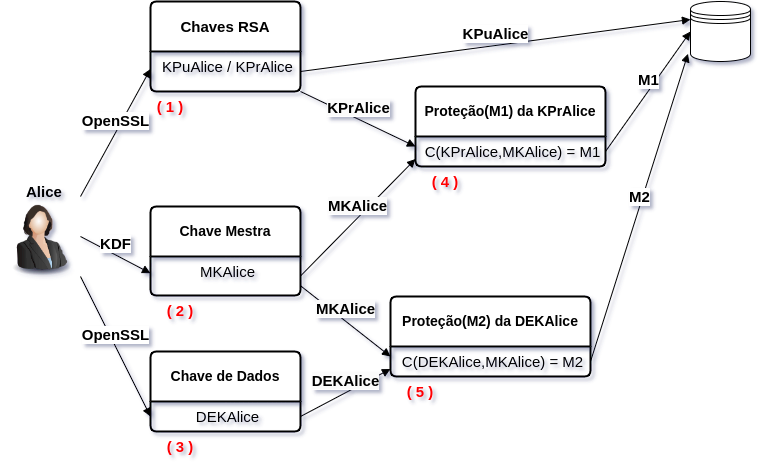
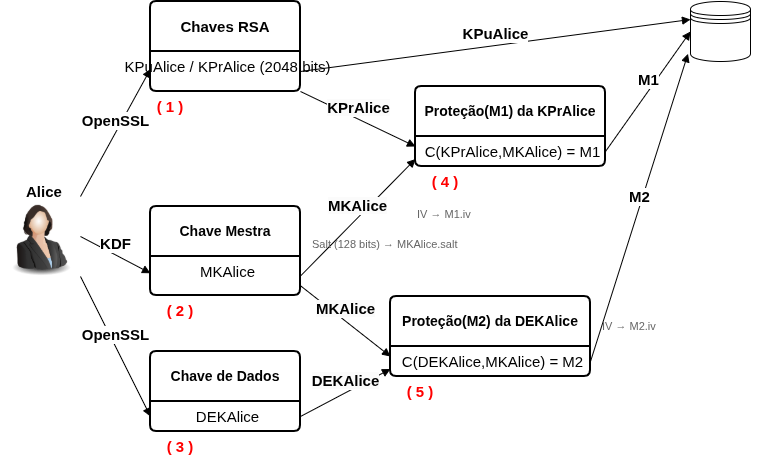
Padroniza RSA 2048 bits e completa diagramas de custódia de Alice/Bob
Adiciona -pkeyopt rsa_keygen_bits:2048 aos comandos genpkey de Alice e
Bob em custodia.tex (alinhando com o padrão já usado em conceitos.tex).
Nos diagramas chave_alice.drawio/chave_bob.drawio, declara o tamanho de
chave no rótulo RSA, referencia a nota de autenticação existente nas
legendas das figuras e adiciona notas de salt/IV (MKAlice.salt, M1.iv,
M2.iv, MKBob.salt, M3.iv, M4.iv) hoje ausentes do diagrama.

Remove também do algoritmo/CLAUDE.md a pendência obsoleta sobre 7
imagens órfãs em algoritmo/img/ já removidas no commit 317fe40.

diff --git a/custodia/custodia.tex b/custodia/custodia.tex
@@ -99,7 +99,7 @@ Processo de criação das chaves, Pública (KPuAlice.pem), Privada (KPrAlice.pem
 \begin{figure}[H]
 	\centering
 	\includegraphics[scale=0.55]{chave_alice.png}
-	\caption{Chaves e Processos associadas a Alice}
+	\caption{Chaves e Processos associadas a Alice (M1 e M2: ver nota sobre autenticação)}
 	\label{fig:chave_alice}
 \end{figure}
 
@@ -108,7 +108,7 @@ Processo de criação das chaves, Pública (KPuAlice.pem), Privada (KPrAlice.pem
 	\begin{tcolorbox}[width=\textwidth]
 		{\scriptsize
 			\begin{verbatim}
-			$ openssl genpkey -algorithm RSA -out KPrAlice.pem
+			$ openssl genpkey -algorithm RSA -pkeyopt rsa_keygen_bits:2048 -out KPrAlice.pem
 			$ openssl rsa -pubout -in KPrAlice.pem -out KPuAlice.pem
 			$ openssl req -new -x509 -key KPrAlice.pem -out Alice.cert.pem \
 			  -subj "/CN=Alice"
@@ -167,7 +167,7 @@ Processo de criação das chaves, Pública (KPuBob.pem), Privada (KPrBob.pem) e 
 \begin{figure}[H]
 	\centering
 	\includegraphics[scale=0.55]{chave_bob.png}
-	\caption{Chaves e Processos associados ao Bob}
+	\caption{Chaves e Processos associados ao Bob (M3 e M4: ver nota sobre autenticação)}
 	\label{fig:chave_bob}
 \end{figure}
 
@@ -177,7 +177,7 @@ Processo de criação das chaves, Pública (KPuBob.pem), Privada (KPrBob.pem) e 
 		\begin{tcolorbox}[width=\textwidth]
 			{\scriptsize
 				\begin{verbatim}
-				$ openssl genpkey -algorithm RSA -out KPrBob.pem
+				$ openssl genpkey -algorithm RSA -pkeyopt rsa_keygen_bits:2048 -out KPrBob.pem
 				$ openssl rsa -pubout -in KPrBob.pem -out KPuBob.pem
 				\end{verbatim}
 			}

diff --git a/algoritmo/CLAUDE.md b/algoritmo/CLAUDE.md
@@ -24,10 +24,3 @@ Compila limpo (verificado com `pdflatex`, 6 páginas, sem erro).
 - AES-CBC é recomendado sem menção a autenticação (MAC/AEAD). Alinhar com
   a ressalva já usada em `conceitos.tex`/`custodia.tex` sobre CBC puro não
   detectar adulteração.
-- `img/` tem 9 imagens; só `logo.png` é referenciada no `.tex`. As outras
-  7 (`chave_alice.png`, `chave_bob.png`, `cliente_chave_mestra.png`,
-  `custodiando.png`, `legenda_assimetrico.png`, `legenda_simetrico.png`,
-  `recuperacao_chaves_alice.png`, `recuperacao_chaves_bob.png`) não
-  aparecem no texto. Os nomes batem com o fluxo de `custodia/img/` —
-  parecem ter sido copiadas por engano ou preparadas para uma seção que
-  nunca foi escrita. Decidir: integrar ao texto ou remover do diretório.
